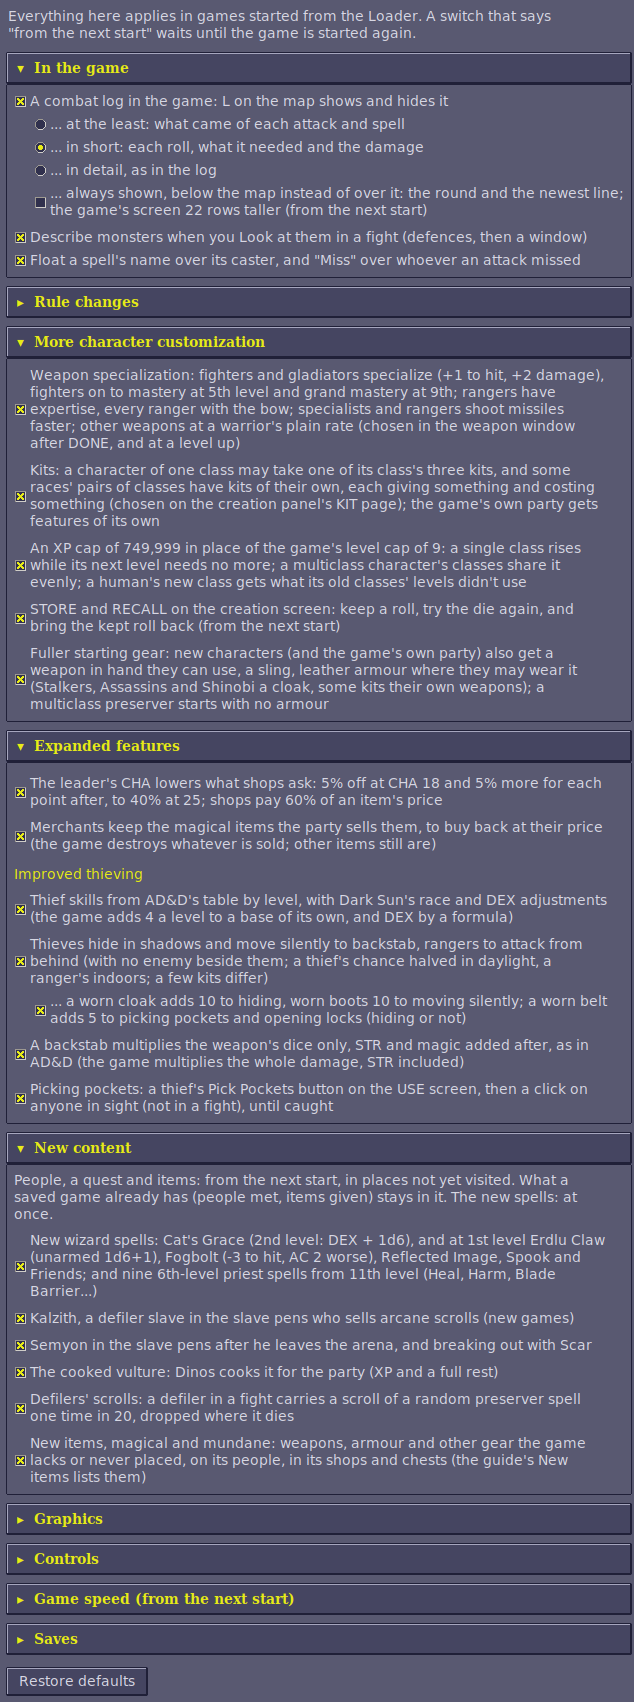
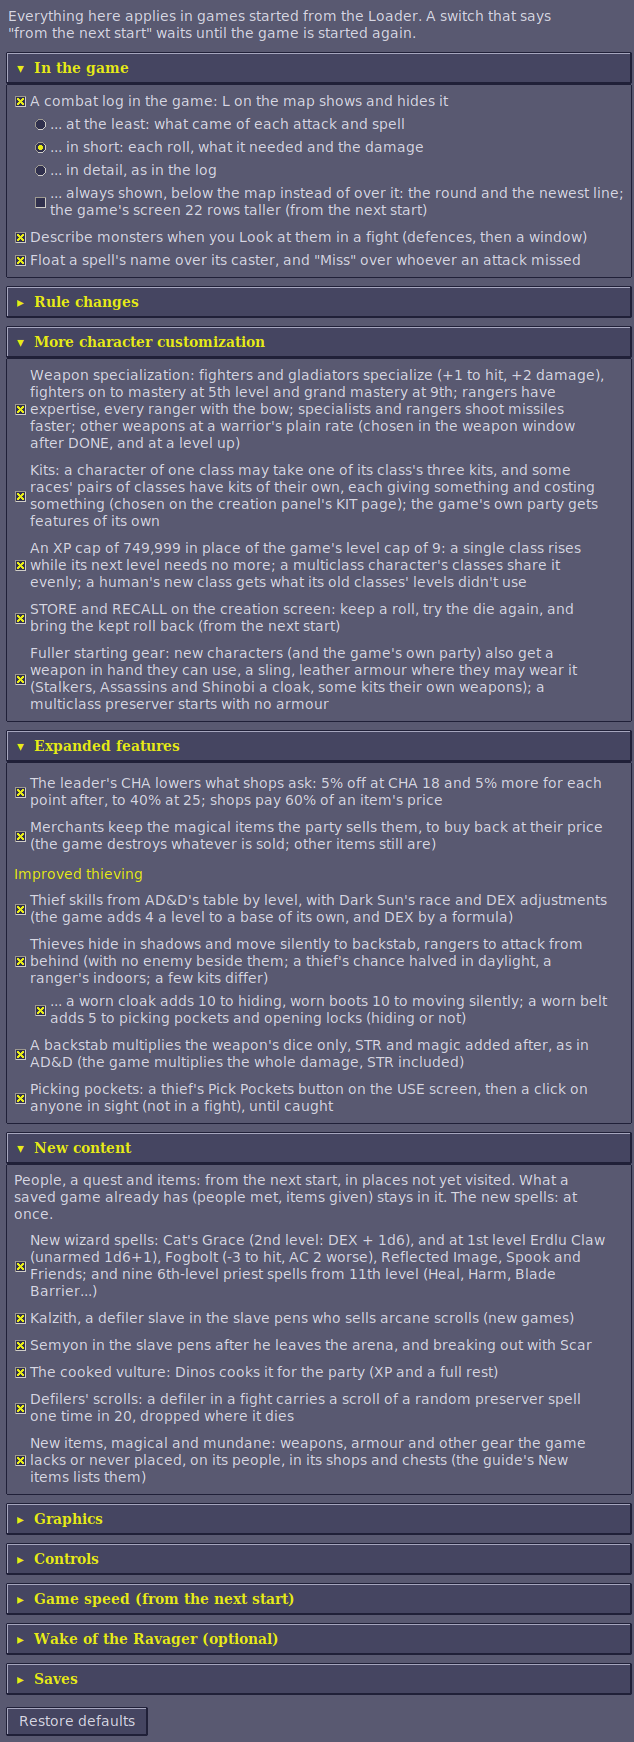
Docs review: Options' Wake of the Ravager section, Wall of Thorns' AC notes, two screenshots
Claude-Session: https://claude.ai/code/session_01BNiWkhyZSJPYsN3zRrweVp

Changed region(s): [[0.0, 0.0, 1.0, 0.9965], [0.959, 0.0934, 0.989, 0.1246]]

diff --git a/patch-notes.html b/patch-notes.html
@@ -190,7 +190,7 @@ footer { max-width: 1080px; margin: 0 auto; padding-block: 28px 56px; border-top
 </section>
 <section id="graphics">
 <h2>Graphics</h2>
-<ul><li><span class="tag new">New</span>The party's figures show the weapons, shields, armour, helms and cloaks they wear, in each material's colours, walking and fighting.</li><li><span class="tag new">New</span>Elves have pointed ears.</li><li><span class="tag new">New</span>Half-elves no longer look like humans: a half-elf man is built like the elf, a little broader, with short fair hair, a leather jerkin, green trousers and pointed ears; a half-elf woman is a little slimmer than the human woman, with golden hair in a bun, pointed ears, a purple cloak and red boots.</li><li><span class="tag new">New</span>Every figure casts a soft shadow, and walkers kick up dust on sand and dirt.</li><li><span class="tag new">New</span>The 6th-level priest spells that stay on the map have pictures of their own: Blade Barrier's circling blades and Wall of Thorns' tangle of thorns (Wake of the Ravager's, read from your copy: GOG sells it with Shattered Lands; recoloured fire walls without it), Fire Seeds' fireball, and Whirlwind's tall funnel of dust, turning.</li></ul>
+<ul><li><span class="tag new">New</span>The party's figures show the weapons, shields, armour, helms and cloaks they wear, in each material's colours, walking and fighting.</li><li><span class="tag new">New</span>Elves have pointed ears.</li><li><span class="tag new">New</span>Half-elves no longer look like humans: a half-elf man is built like the elf, a little broader, with short fair hair, a leather jerkin, green trousers and pointed ears; a half-elf woman is a little slimmer than the human woman, with golden hair in a bun, pointed ears, a purple cloak and red boots.</li><li><span class="tag new">New</span>Every figure casts a soft shadow, and walkers kick up dust on sand and dirt.</li><li><span class="tag new">New</span>The 6th-level priest spells that stay on the map have pictures of their own: Blade Barrier's circling blades, Wall of Thorns' tangle of thorns, Fire Seeds' fireball and Whirlwind's tall, turning funnel of dust. The blades and thorns are Wake of the Ravager's, read from your copy (GOG sells it with Shattered Lands); without it they are the fire wall, recoloured.</li></ul>
 </section>
 <section id="quality-of-life">
 <h2>Quality of Life</h2>
@@ -198,7 +198,7 @@ footer { max-width: 1080px; margin: 0 auto; padding-block: 28px 56px; border-top
 </section>
 <section id="the-loader">
 <h2>The Loader</h2>
-<ul><li><span class="tag new">New</span>The Loader: it starts the game with the mod and your options, and stays open while you play, laid out in the game's own colours.</li><li><span class="tag new">New</span><strong>The dice log:</strong> every attack, damage roll, saving throw, thief skill, initiative score and character creation roll as it happens, with the number it needed, the chance of success, and where every bonus came from.</li><li><span class="tag new">New</span><strong>Characters:</strong> each party member's sheet as View Character lays it out, plus THAC0 with each weapon, saves as the d20 needed right now, attacks a round, current AC and what it's made of, spell slots and thief skills.</li><li><span class="tag new">New</span><strong>Spells:</strong> every wizard spell, priest spell and psionic power's damage dice, saving throw, effect and duration, read from the running game.</li><li><span class="tag new">New</span><strong>Dialogue:</strong> everything said, with the speaker's portrait and name, and the reply you chose.</li><li><span class="tag new">New</span><strong>Find</strong> in the dice log and the dialogue (Ctrl+F): every match highlighted, Enter for the next.</li><li><span class="tag new">New</span>More in the dice log: the <strong>psionic defence</strong> against Ego Whip, Id Insinuation, Psychic Crush and Psionic Blast; <strong>Detonate</strong>'s blast on an item (which one, the d20, and whether it's gone: it picks the worn item that breaks most easily, a bone helm before bone armour); why the game <strong>refused a spell</strong> you clicked (no line of sight, too far...); what a <strong>script</strong> asked for (a rest, random monsters, an arena bout); the <strong>protection that halved</strong> a spell's damage (Resist Fire, Fire Shield...); and a party member's <strong>ability score</strong> changing; and what a monster's <strong>special attack</strong> does (<code>Paralysing attack: lasts 7 rounds unless saved against</code>).</li><li><span class="tag new">New</span><strong>How the game works</strong> compares every cleric spell and psionic power with the manual: what the manual says, what the game's code does, and what the log shows.</li><li><span class="tag new">New</span><strong>Options:</strong> every rule change and addition in these notes has its own switch, nearly all on by default, and <strong>Restore defaults</strong> sets them all back.</li><li><span class="tag new">New</span><strong>Accessibility:</strong> text that can be enlarged up to 2.5 times (<strong>A+</strong>, <strong>A-</strong>, <strong>Ctrl +</strong> and <strong>Ctrl -</strong>), every control reachable from the keyboard, colours with at least 4.5:1 contrast, and the logs saved as text for screen readers.</li></ul>
+<ul><li><span class="tag new">New</span>The Loader: it starts the game with the mod and your options, and stays open while you play, laid out in the game's own colours.</li><li><span class="tag new">New</span><strong>The dice log:</strong> every attack, damage roll, saving throw, thief skill, initiative score and character creation roll as it happens, with the number it needed, the chance of success, and where every bonus came from.</li><li><span class="tag new">New</span><strong>Characters:</strong> each party member's sheet as View Character lays it out, plus THAC0 with each weapon, saves as the d20 needed right now, attacks a round, current AC and what it's made of, spell slots and thief skills.</li><li><span class="tag new">New</span><strong>Spells:</strong> every wizard spell, priest spell and psionic power's damage dice, saving throw, effect and duration, read from the running game.</li><li><span class="tag new">New</span><strong>Dialogue:</strong> everything said, with the speaker's portrait and name, and the reply you chose.</li><li><span class="tag new">New</span><strong>Find</strong> in the dice log and the dialogue (Ctrl+F): every match highlighted, Enter for the next.</li><li><span class="tag new">New</span>More in the dice log: the <strong>psionic defence</strong> against Ego Whip, Id Insinuation, Psychic Crush and Psionic Blast; <strong>Detonate</strong>'s blast on an item (which one, the d20, and whether it's gone: it picks the worn item that breaks most easily, a bone helm before bone armour); why the game <strong>refused a spell</strong> you clicked (no line of sight, too far...); what a <strong>script</strong> asked for (a rest, random monsters, an arena bout); the <strong>protection that halved</strong> a spell's damage (Resist Fire, Fire Shield...); a party member's <strong>ability score</strong> changing; and what a monster's <strong>special attack</strong> does (<code>Paralysing attack: lasts 7 rounds unless saved against</code>).</li><li><span class="tag new">New</span><strong>How the game works</strong> compares every cleric spell and psionic power with the manual: what the manual says, what the game's code does, and what the log shows.</li><li><span class="tag new">New</span><strong>Options:</strong> every rule change and addition in these notes has its own switch, nearly all on by default, and <strong>Restore defaults</strong> sets them all back.</li><li><span class="tag new">New</span><strong>Accessibility:</strong> text that can be enlarged up to 2.5 times (<strong>A+</strong>, <strong>A-</strong>, <strong>Ctrl +</strong> and <strong>Ctrl -</strong>), every control reachable from the keyboard, colours with at least 4.5:1 contrast, and the logs saved as text for screen readers.</li></ul>
 <div class="dev"><b>Developers' Notes</b>Shattered Lands rolls dice for everything and shows you almost none of it. Fireball victims kept saving and nobody knew why (the game doubles the d20 against fire). The Loader started as a way to see those numbers. Once we could see them, we started fixing them.</div>
 </section>
 <section id="bug-fixes">
@@ -462,7 +462,7 @@ The plain weapons the game never had, sold by merchants and carried across Athas
 - **[New]** Elves have pointed ears.
 - **[New]** Half-elves no longer look like humans: a half-elf man is built like the elf, a little broader, with short fair hair, a leather jerkin, green trousers and pointed ears; a half-elf woman is a little slimmer than the human woman, with golden hair in a bun, pointed ears, a purple cloak and red boots.
 - **[New]** Every figure casts a soft shadow, and walkers kick up dust on sand and dirt.
-- **[New]** The 6th-level priest spells that stay on the map have pictures of their own: Blade Barrier's circling blades and Wall of Thorns' tangle of thorns (Wake of the Ravager's, read from your copy: GOG sells it with Shattered Lands; recoloured fire walls without it), Fire Seeds' fireball, and Whirlwind's tall funnel of dust, turning.
+- **[New]** The 6th-level priest spells that stay on the map have pictures of their own: Blade Barrier's circling blades, Wall of Thorns' tangle of thorns, Fire Seeds' fireball and Whirlwind's tall, turning funnel of dust. The blades and thorns are Wake of the Ravager's, read from your copy (GOG sells it with Shattered Lands); without it they are the fire wall, recoloured.
 
 ## Quality of Life
 
@@ -485,7 +485,7 @@ The plain weapons the game never had, sold by merchants and carried across Athas
 - **[New]** **Spells:** every wizard spell, priest spell and psionic power's damage dice, saving throw, effect and duration, read from the running game.
 - **[New]** **Dialogue:** everything said, with the speaker's portrait and name, and the reply you chose.
 - **[New]** **Find** in the dice log and the dialogue (Ctrl+F): every match highlighted, Enter for the next.
-- **[New]** More in the dice log: the **psionic defence** against Ego Whip, Id Insinuation, Psychic Crush and Psionic Blast; **Detonate**'s blast on an item (which one, the d20, and whether it's gone: it picks the worn item that breaks most easily, a bone helm before bone armour); why the game **refused a spell** you clicked (no line of sight, too far...); what a **script** asked for (a rest, random monsters, an arena bout); the **protection that halved** a spell's damage (Resist Fire, Fire Shield...); and a party member's **ability score** changing; and what a monster's **special attack** does (`Paralysing attack: lasts 7 rounds unless saved against`).
+- **[New]** More in the dice log: the **psionic defence** against Ego Whip, Id Insinuation, Psychic Crush and Psionic Blast; **Detonate**'s blast on an item (which one, the d20, and whether it's gone: it picks the worn item that breaks most easily, a bone helm before bone armour); why the game **refused a spell** you clicked (no line of sight, too far...); what a **script** asked for (a rest, random monsters, an arena bout); the **protection that halved** a spell's damage (Resist Fire, Fire Shield...); a party member's **ability score** changing; and what a monster's **special attack** does (`Paralysing attack: lasts 7 rounds unless saved against`).
 - **[New]** **How the game works** compares every cleric spell and psionic power with the manual: what the manual says, what the game's code does, and what the log shows.
 - **[New]** **Options:** every rule change and addition in these notes has its own switch, nearly all on by default, and **Restore defaults** sets them all back.
 - **[New]** **Accessibility:** text that can be enlarged up to 2.5 times (**A+**, **A-**, **Ctrl +** and **Ctrl -**), every control reachable from the keyboard, colours with at least 4.5:1 contrast, and the logs saved as text for screen readers.

diff --git a/PATCH-NOTES.md b/PATCH-NOTES.md
@@ -242,7 +242,7 @@ The plain weapons the game never had, sold by merchants and carried across Athas
 - **[New]** Elves have pointed ears.
 - **[New]** Half-elves no longer look like humans: a half-elf man is built like the elf, a little broader, with short fair hair, a leather jerkin, green trousers and pointed ears; a half-elf woman is a little slimmer than the human woman, with golden hair in a bun, pointed ears, a purple cloak and red boots.
 - **[New]** Every figure casts a soft shadow, and walkers kick up dust on sand and dirt.
-- **[New]** The 6th-level priest spells that stay on the map have pictures of their own: Blade Barrier's circling blades and Wall of Thorns' tangle of thorns (Wake of the Ravager's, read from your copy: GOG sells it with Shattered Lands; recoloured fire walls without it), Fire Seeds' fireball, and Whirlwind's tall funnel of dust, turning.
+- **[New]** The 6th-level priest spells that stay on the map have pictures of their own: Blade Barrier's circling blades, Wall of Thorns' tangle of thorns, Fire Seeds' fireball and Whirlwind's tall, turning funnel of dust. The blades and thorns are Wake of the Ravager's, read from your copy (GOG sells it with Shattered Lands); without it they are the fire wall, recoloured.
 
 ## Quality of Life
 
@@ -265,7 +265,7 @@ The plain weapons the game never had, sold by merchants and carried across Athas
 - **[New]** **Spells:** every wizard spell, priest spell and psionic power's damage dice, saving throw, effect and duration, read from the running game.
 - **[New]** **Dialogue:** everything said, with the speaker's portrait and name, and the reply you chose.
 - **[New]** **Find** in the dice log and the dialogue (Ctrl+F): every match highlighted, Enter for the next.
-- **[New]** More in the dice log: the **psionic defence** against Ego Whip, Id Insinuation, Psychic Crush and Psionic Blast; **Detonate**'s blast on an item (which one, the d20, and whether it's gone: it picks the worn item that breaks most easily, a bone helm before bone armour); why the game **refused a spell** you clicked (no line of sight, too far...); what a **script** asked for (a rest, random monsters, an arena bout); the **protection that halved** a spell's damage (Resist Fire, Fire Shield...); and a party member's **ability score** changing; and what a monster's **special attack** does (`Paralysing attack: lasts 7 rounds unless saved against`).
+- **[New]** More in the dice log: the **psionic defence** against Ego Whip, Id Insinuation, Psychic Crush and Psionic Blast; **Detonate**'s blast on an item (which one, the d20, and whether it's gone: it picks the worn item that breaks most easily, a bone helm before bone armour); why the game **refused a spell** you clicked (no line of sight, too far...); what a **script** asked for (a rest, random monsters, an arena bout); the **protection that halved** a spell's damage (Resist Fire, Fire Shield...); a party member's **ability score** changing; and what a monster's **special attack** does (`Paralysing attack: lasts 7 rounds unless saved against`).
 - **[New]** **How the game works** compares every cleric spell and psionic power with the manual: what the manual says, what the game's code does, and what the log shows.
 - **[New]** **Options:** every rule change and addition in these notes has its own switch, nearly all on by default, and **Restore defaults** sets them all back.
 - **[New]** **Accessibility:** text that can be enlarged up to 2.5 times (**A+**, **A-**, **Ctrl +** and **Ctrl -**), every control reachable from the keyboard, colours with at least 4.5:1 contrast, and the logs saved as text for screen readers.

diff --git a/obsidian-edition/DEVELOPMENT.md b/obsidian-edition/DEVELOPMENT.md
@@ -2297,9 +2297,14 @@ thing's object is no longer Whirlwind's (the area gone).
 A0h). The game keeps no AC: its AC routine
 (58DD3h) works one out from items and effects for each attack, and it is in another overlay
 (41BEh) than the damage roll (428Fh), so calling it there could have the overlay manager move the
-code it returns to. A monster's AC is its sheet's +27h (the Look box's); a party member's sheet
-says 10 there whatever it wears, so `PROBE_AC`, at the AC routine's end, keeps each member's last
-AC (`AC_SEEN`, its `[BP+6]` the combatant; 7Fh none yet: then the sheet's). The dice log shows
+code it returns to. So `PROBE_AC`, at the AC routine's end, keeps each party member's last AC
+(`AC_SEEN`, its `[BP+6]` the combatant; 7Fh none yet), and for anyone else (or a member not yet
+attacked) `THORNS_AC` counts as the routine does: the sheet's base (+27h, 10 for an armed man:
+the routine adds the armour), less each worn item's plus and its type's AC (+12h, types with +0Fh
+80h, a shield too) in the creature's item lists +8 and +0Ah (where putting an item on moves it;
+the routine doesn't look at the slot byte, and +0Ch, the backpack, doesn't count), a fifth of a
+gladiator's level (508:25h's) and the DEX adjustment (DS:7F6h by the record's +23h). The
+effects' part (5B8:F2h: Armor, Barkskin and the rest) is left out. The dice log shows
 it: the entry's extra carries the AC + 80h in its high byte. Blade Barrier's record has its own
 8d8, edged (+1Ah 210h), and the game's saving throw against spells (+1Fh A1h) for none (+11h's
 8000h), as Wake of the Ravager's. Sunstroke's record takes Slay Living's aim (+00h 4,

diff --git a/CHANGELOG.md b/CHANGELOG.md
@@ -30,6 +30,11 @@ change from the original game in one page, [the patch notes](PATCH-NOTES.md).
   `BT`), and `EXTRA_NAMES` keeps its 46 names in 16 bytes each (`NAME_KEPT`: 15 letters at most),
   `PROBE_NAMES_FILL` padding each to the game's 25 as it copies them: 455 and 414 bytes. Checked
   in the game: all 46 names in the game's table as before, and the figures' shadows drawn.
+- **Documentation review.** The Loader README lists the Options tab's Wake of the Ravager section;
+  DEVELOPMENT describes how `THORNS_AC` now counts a monster's AC; How the game works keeps the
+  manual's column the manual's (Slay Living); two sentences in the patch notes untangled. Two
+  screenshots retaken: `options.png` (with the Wake of the Ravager section) and Heartseeker's tile
+  in `new-priest-spells.png` (its new description).
 - **Heartseeker's and Slay Living's descriptions.** A creature that saves still takes half of
   4d8, 2 to 16: Heartseeker's said only that it slays, and Slay Living's said 3 to 17 (the book's
   2d8+1, not what the game rolls). `spelltexts.py` puts both right (SPIN 209 and 137), and the

diff --git a/obsidian-edition/HOW-THE-GAME-WORKS.md b/obsidian-edition/HOW-THE-GAME-WORKS.md
@@ -185,7 +185,7 @@ shows for it; every effect line also says what the effect does.
 | Ironskin | immune to weapons | 1d6 blows stopped | the effect |
 | Quicksand | sinks and is held; 1 turn + 1 round a level | Stuck on a failed save, for 1 round | the save and the effect |
 | Raise Dead | by CON and how long dead; −1 CON; 1 HP | always works on someone dead who isn't an elf: −1 CON, 1 HP | the HP and the CON change |
-| Slay Living | dies on a failed save, 3–17 if saved (the Loader's text: 2–16) | HP + 10 damage on a failed save against paralysis/poison/death; half of 4d8 if saved | the save and the damage |
+| Slay Living | dies on a failed save, 3–17 if saved | HP + 10 damage on a failed save against paralysis/poison/death; half of 4d8 (2–16) if saved, as the Loader's description now says | the save and the damage |
 | Wall of Fire | fire to those passing through | 4d4 + 1 a level fire, no save | the roll and the HP lost |
 
 ## Psionics

diff --git a/obsidian-edition/README.md b/obsidian-edition/README.md
@@ -682,6 +682,9 @@ Everything there applies in games started from the Loader; a switch that says
   Cilla drawn as an elf, what the party wears, shadows and dust.
 - **Controls** ([Controls](FEATURES.md#controls)) and **Game speed**
   ([Game speed](FEATURES.md#game-speed)).
+- **Wake of the Ravager (optional)**: whether the Loader found it, for the
+  6th-level priest spells' icons and pictures, and **Choose its folder...**
+  ([Requirements](#requirements)).
 - **Saves** ([Saves under their names](FEATURES.md#saves-under-their-names)): the folder
   of saves kept under their names, and putting one back in a slot.
 
